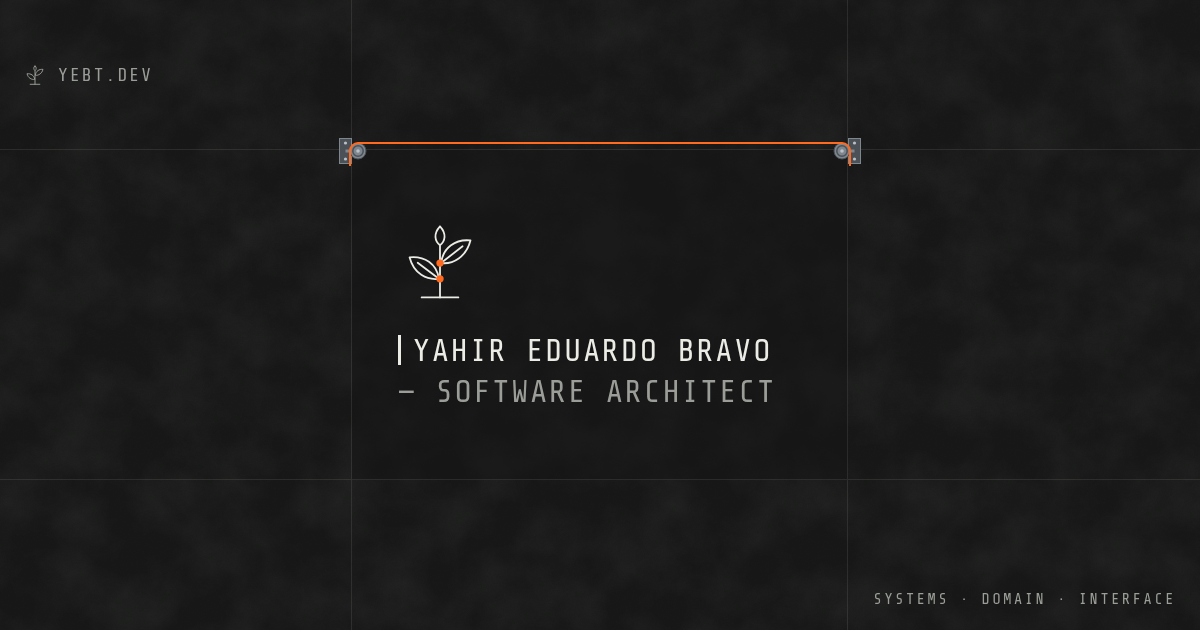
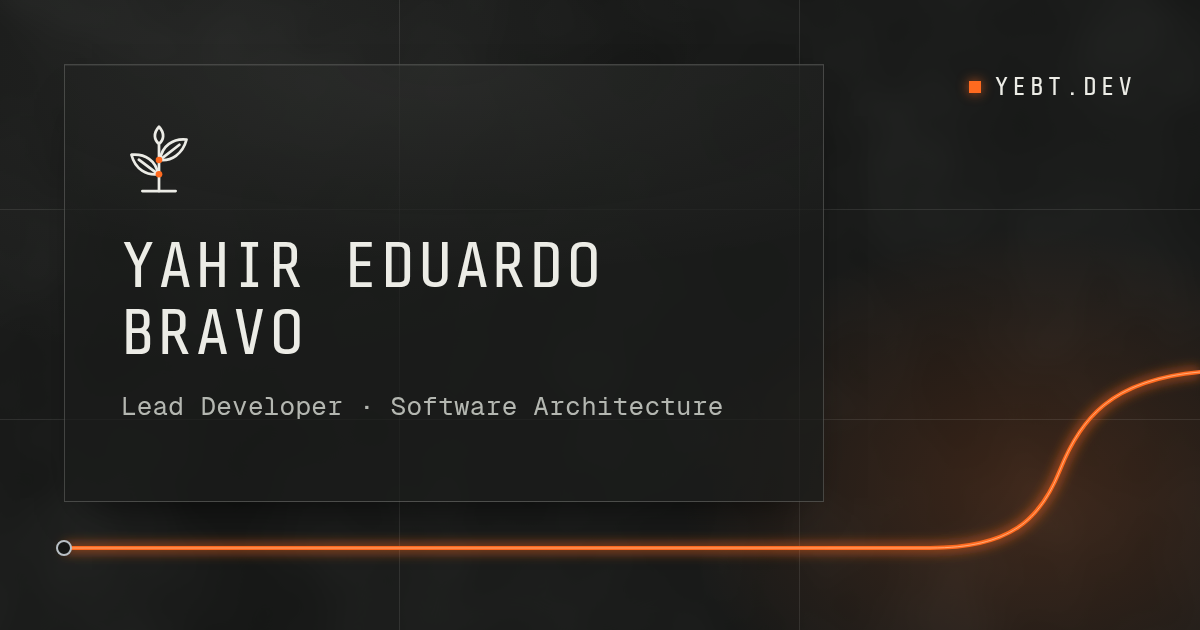
feat(seo): SITE_URL-driven site origin and reproducible og card
astro.config.mjs reads SITE_URL (process env or .env via loadEnv),
validates it as an absolute http(s) URL and warns once when unset.
scripts/build-og.mjs (npm run og) renders public/og.png 1200x630 with
headless Chrome: concrete, grid, plant mark, name, headline, domain and
an orange cable (277 KB, was 443 KB). Default title and og:image:alt
now read Lead Developer · Software Architecture. Documented in README.

diff --git a/portfolio-base/README.md b/portfolio-base/README.md
@@ -1,6 +1,6 @@
 # yebt.dev — Grid Console
 
-Portfolio of Yahir Eduardo Bravo, software architect. Astro 7, static output, no UI framework.
+Portfolio of Yahir Eduardo Bravo, Lead Developer focused on software architecture. Astro 7, static output, no UI framework.
 
 ## Commands
 
@@ -11,6 +11,20 @@ Portfolio of Yahir Eduardo Bravo, software architect. Astro 7, static output, no
 | `npm run build`   | Build the static site to `./dist/`      |
 | `npm run preview` | Preview the build                       |
 | `npm test`        | Run unit tests (Vitest)                 |
+| `npm run og`      | Render the social card to `public/og.png` |
+| `npm run cv:pdf`  | Print `/cv` to `public/cv.pdf`          |
+
+## Deployment: `SITE_URL`
+
+Set `SITE_URL` to the public origin (absolute `http(s)` URL, e.g. `https://yebt.dev`) in the host's build
+environment or in a local `.env` (see `.env.example`; `.env` files are gitignored). `astro.config.mjs`
+validates it and uses it as `site`, so canonical and `og:image` URLs are absolute. Without it the build still
+works, prints one warning and keeps those URLs relative, which most social previews ignore.
+
+`npm run og` renders `public/og.png` (1200 × 630) from `scripts/build-og.mjs` with headless Chrome (set
+`CHROME_PATH` if it is not in a standard location; Node >= 22.18 to load the plant mark from TypeScript). The
+card shows the domain from `SITE_URL`, falling back to `yebt.dev`. Rerun it and commit the PNG after changing
+the name, the headline or the domain.
 
 ## Structure
 
